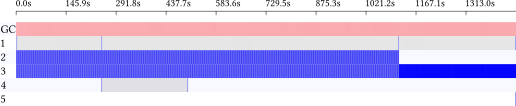
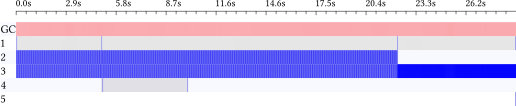
Fix bug in timeline rendering
Closes #21.

diff --git a/README.md b/README.md
@@ -24,7 +24,7 @@ slice time more finely (this was the default for versions 0.2.1 and 0.2.2), you
 can run
 
 ```
-ghc-events-analyze -b 500 --tick-every 50 --bucket-width 1 --border-width 0
+ghc-events-analyze -b 500 --tick-every 10 --bucket-width 1 --border-width 0
 ```
 
 The results in something like
